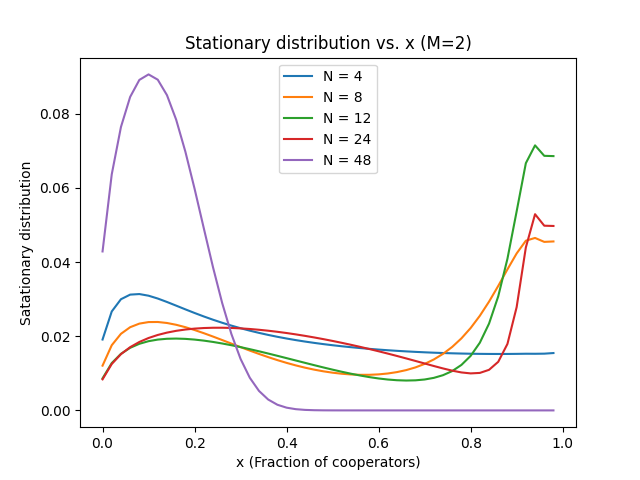
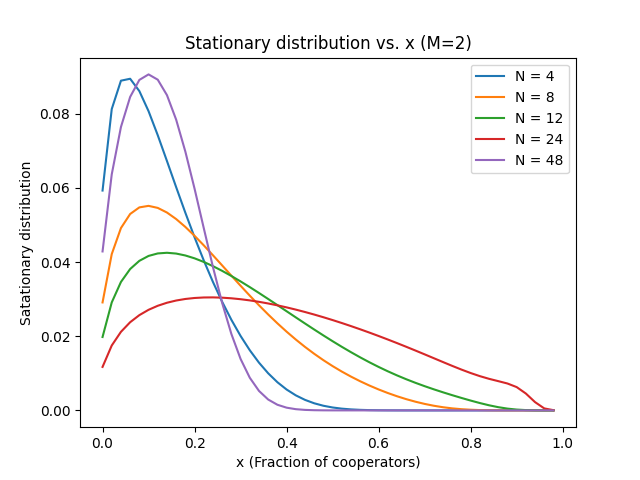
games

diff --git a/main.py b/main.py
@@ -231,7 +231,8 @@ def payoffD(k, M, r, game = "SH"):
     if game == "SH":
         return b * (theta(k - M) + (1 - r) * (1 - theta(k - M)))
     elif game == "SG":
-        return b * theta(k - M)
+        # I adapt from the paper: considering risk for all if M < N is not met
+        return b * (theta(k - M) + (1 - r) * (1 - theta(k - M)))
     elif game == "PD":
         return b * (theta(k - M))
 
